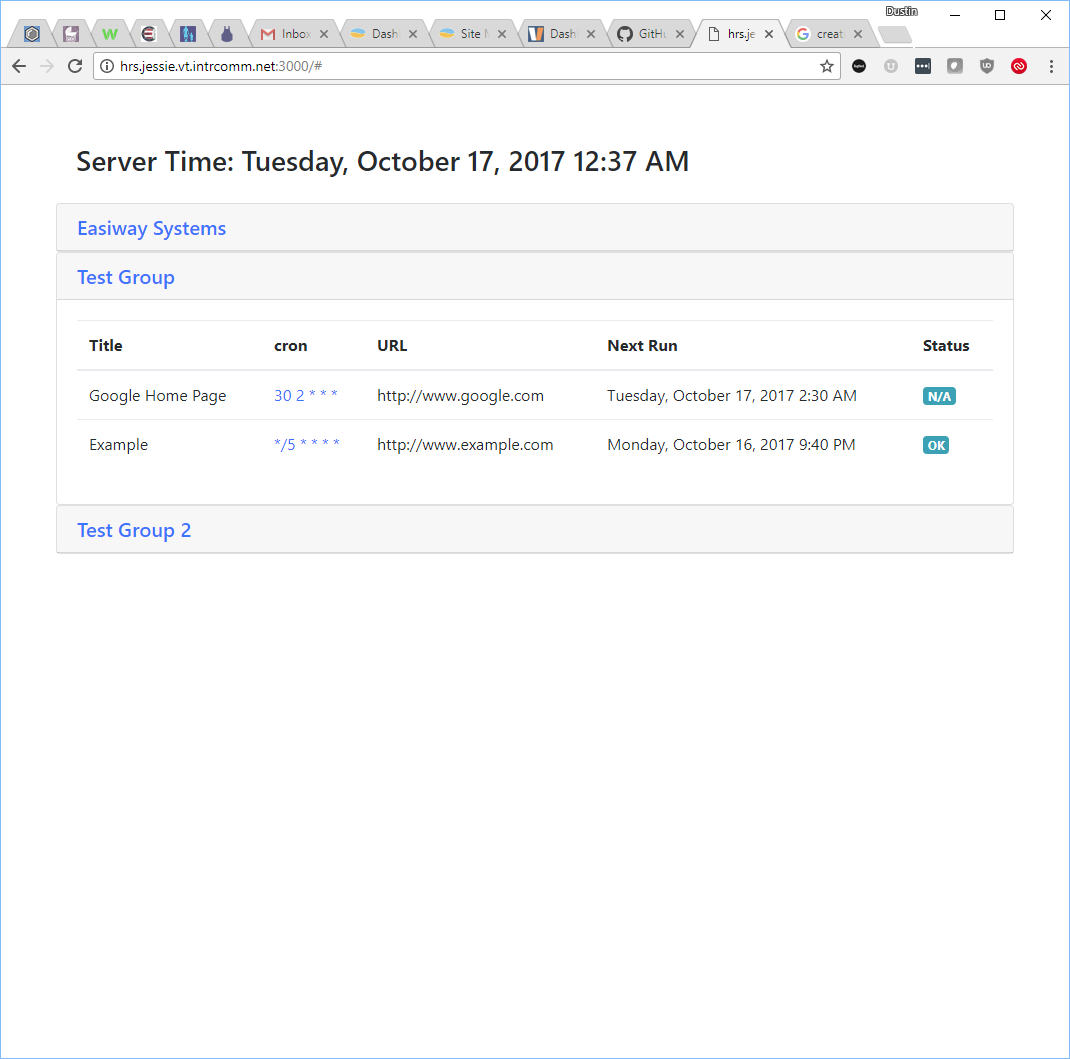
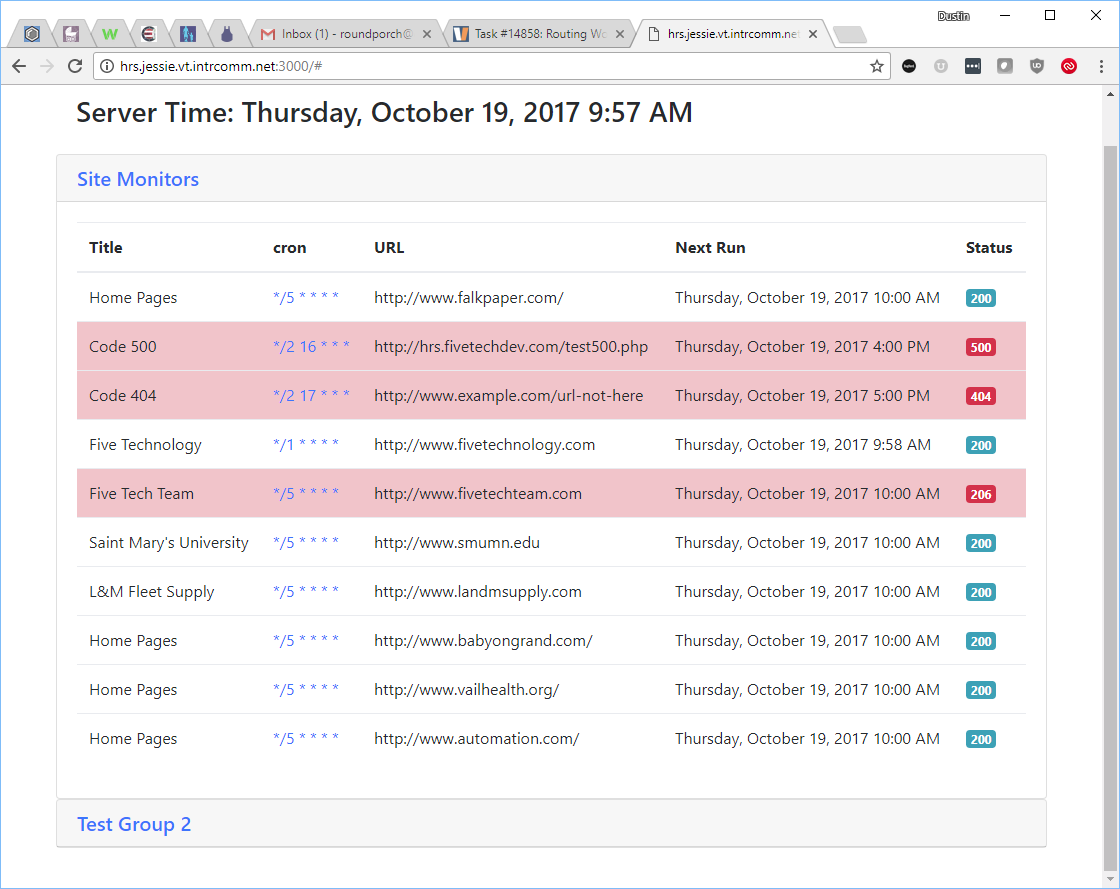
Global config options. Slack webhook integration. Disable single or all jobs. Socket.io update on job data update

diff --git a/index.js b/index.js
@@ -10,70 +10,10 @@ var argv = require('minimist')(process.argv.slice(2));
 if (argv.c) {
   configFile = argv.c;
 }
-if (argv.tickLength || argv.t) {
-  loopSeconds = argv.t;
-}
 
-var Job = function (conf) {
-  this.title = conf.title;
-  this.cron = conf.cron;
-  this.uri = conf.uri;
-  this.domains = conf.domains;
-  this.protocol = conf.protocol;
+console.log("Reading configuration from " + configFile);
+var config = JSON.parse(fs.readFileSync(configFile, 'utf8'));
 
-  // Determine from protocol, uri, domains
-  this.urls = [];
-  if (this.uri) {
-    this.url = this.protocol + '://' + this.domains[0] + this.uri;
-    for(i=0; i<this.domains.length; i++) {
-      this.urls.push(this.protocol + '://' + this.domains[i] + this.uri);
-    }
-  } else {
-    this.url = conf.url;
-  }
-
-  this.guru = "https://crontab.guru/#" + this.cron.replace(' ', '_');
-  this.interval = parser.parseExpression(this.cron);
-  this.lastStatus = 'N/A';
-};
-
-Job.prototype.next = function () {
-  this._next = this.interval.next();
-  this.nextRun = this._next._date.format('LLLL');
-};
-
-Job.prototype.run = function() {
-  var that = this;
-  if (this.uri && this.urls.length) {
-    // Multiple domains
-    for(var i=0; i<this.urls.length; i++) {
-      request.get(this.urls[i], function (error, response, body) {
-        that.statusCode = response.statusCode;
-        that.lastStatus = response.statusMessage;
-        that.body = body;
-        // TODO: Record status code, body, request time, string check
-      });
-    }
-  } else {
-    request.get(this.url, function (error, response, body) {
-      that.statusCode = response.statusCode;
-      that.lastStatus = response.statusMessage;
-      that.body = body;
-      // TODO: Record status code, body, request time, string check
-    });
-  }
-
-};
-
-console.log("Reading groups/jobs from" + configFile);
-var groups = JSON.parse(fs.readFileSync(configFile, 'utf8'));
-groups.forEach(function(group) {
-  for (var i=0; i<group.jobs.length; i++) {
-    var job = new Job(group.jobs[i]);
-    job.next();
-    group.jobs[i] = job;
-  }
-});
 
 // Setup HTTP server and sockets.  We only serve one page
 var server = require('http').createServer(function(req, res) {
@@ -85,29 +25,144 @@ var io = require('socket.io')(server);
 io.on('connection', function(socket) {
   // Will validate the connection
   socket.on('register', function(data) {
-    socket.emit('groups', groups);
-    io.emit('tick', {serverTime: moment().format('LLLL')});
+    socket.emit('groups', config.groups);
+    socket.emit('tick', {serverTime: moment().format('LLLL')});
   });
 });
+
+var Job = function (conf) {
+  this.title = conf.title;
+  this.cron = conf.cron;
+  this.uri = conf.uri;
+  this.url = conf.url;
+  this.done = conf.done;
+  this.domain = '';
+  this.domains = conf.domains;
+  this.protocol = conf.protocol;
+  this.string = conf.string;
+  this.runOnStart = conf.runOnStart;
+};
+
+Job.prototype.next = function () {
+  this._next = this.interval.next();
+  this.done = this._next.done;
+  this.nextRun = this._next._date.format('LLLL');
+};
+
+Job.prototype.init = function() {
+  if (this.uri) {
+    this.url = this.protocol + '://' + this.domain + this.uri;
+  }
+  console.log('Initializing ' + this.url);
+  this.guru = "https://crontab.guru/#" + this.cron.replace(' ', '_');
+  this.interval = parser.parseExpression(this.cron);
+  this.lastStatus = 'N/A';
+  this.statusCode = 0;
+
+  this.next();
+  if (!config.disabled && this.runOnStart) {
+    this.run();
+  }
+};
+
+Job.prototype.request = function(url) {
+  var that = this;
+  request.get({url: url, timeout: 120 * 1000}, function (error, response, body) {
+    if (response) {
+      that.statusCode = response.statusCode;
+      that.lastStatus = response.statusMessage;
+      that.body = body;
+      if (that.string) {
+        console.log('Searching for ' + that.string);
+        if (body.search(that.string) === -1) {
+          that.statusCode = 206;
+          that.lastStatus = "String " + that.string + " not found";
+        }
+      }
+      if (config.slackhook && that.statusCode != 200) {
+        console.log("Sending Slack notification");
+        slack.webhook({
+          channel: "#hrs",
+          username: "5tool",
+          // Not sending the URL as Slack may "unfurl" it essentially running the job again
+          text: that.group + ": " + that.title + ": " + that.statusCode + ": " + that.lastStatus
+        }, function(err, response) {
+          //console.log(response);
+        });
+      }
+    } else {
+      console.log(error);
+    }
+    io.emit('job', that);
+  });
+};
+
+Job.prototype.run = function() {
+  this.request(this.url);
+};
+
+
+// Setup Slack webhook if URL is defined in configuration.  Uses #HRS channel
+if (config.slackhook) {
+  console.log("Setting up slack webhook");
+  var Slack = require('slack-node');
+  slack = new Slack();
+  slack.setWebhook(config.slackhook);
+}
+
+config.groups.forEach(function(group) {
+  var jobCount = group.jobs.length;
+  for (var i=0; i<jobCount; i++) {
+    var job = new Job(group.jobs[i]);
+    job.group = group.title;
+
+    // Treat multiple domains as separate job
+    if (job.uri && job.domains.length) {
+      // Multiple domains
+      job.domain = job.domains[0];
+      job.init();
+      group.jobs[i] = job;
+
+      for (var d=1; d<job.domains.length; d++) {
+        var jobm = new Job(group.jobs[i]);
+        jobm.domain = jobm.domains[d];
+        jobm.init();
+        group.jobs.push(jobm);
+      }
+    } else {
+      job.init();
+      group.jobs[i] = job;
+    }
+
+  }
+});
+
 
 server.listen(3000);
 
 // Start timing loop. Each job will be checked on every loop to determine if it's time to run
+if (argv.t) {
+  loopSeconds = argv.t;
+}
 console.log("Setting up timer for " + loopSeconds + " seconds");
+
 setInterval(function() {
   var now = moment();
 
   io.emit('tick', {serverTime: now.format('LLLL')});
 
-  for (var g=0; g<groups.length; g++) {
-    var group = groups[g];
+  for (var g=0; g<config.groups.length; g++) {
+    var group = config.groups[g];
     for (var i=0; i<group.jobs.length; i++) {
       var job = group.jobs[i];
       if (job.done) continue;
 
       // TODO: Correct way to get moment object from CronDate?
       if (now.isSameOrAfter(job._next._date, 'minute')) {
-        job.run();
+        if (! config.disabled) {
+          job.run();
+        }
+        // TODO: Should job continue to run on error?
         job.next();
       }
     }

diff --git a/index.html b/index.html
@@ -34,9 +34,17 @@
               app: app,
               jobModal: jobModal
             },
+            computed: {
+              classStatus: function() {
+                return {
+                  'badge-info': this.lastStatus == 'OK',
+                  'badge-danger': this.lastStatus != 'OK'
+                }
+              }
+            },
             methods: {
               modal: function(job) {
-                jobModal.title = job.title;
+                jobModal.title = job.statusCode + ': ' + job.lastStatus;
                 jobModal.body = job.body;
                 $("#modal").modal();
               }
@@ -48,6 +56,17 @@
           socket.on('groups', function(data) {
             for(var i=0; i<data.length; i++) {
               Vue.set(groups, i, data[i]);
+            }
+          });
+
+          // Identify the job that was updated and set
+          socket.on('job', function(job) {
+            for(var i=0; i<groups.length; i++) {
+              for(var j=0; j<groups[i].jobs.length; j++) {
+                if (groups[i].jobs[j].cron === job.cron && groups[i].jobs[j].url === job.url) {
+                  Vue.set(groups[i].jobs, j, job);
+                }
+              }
             }
           });
 
@@ -81,7 +100,7 @@
             </a>
           </h5>
         </div>
-        <div v-bind:id="'group' + key " vbind:class="'show': index == 0" class="collapse" data-parent="#accordion">
+        <div v-bind:id="'group' + key" v-bind:class="{show: key == 0}" class="collapse" data-parent="#accordion">
           <div class="card-body">
             <table class="table">
               <thead>
@@ -94,12 +113,12 @@
               </tr>
               </thead>
               <tbody>
-              <tr v-for="job in group.jobs">
+              <tr v-for="job in group.jobs" v-bind:class="{'table-danger': job.statusCode != 200 && job.statusCode != 0}">
                 <td>{{ job.title }}</td>
                 <td><a v-bind:href="job.guru" target="_blank">{{ job.cron }}</a></td>
                 <td>{{ job.url }}</td>
                 <td>{{ job.nextRun }}</td>
-                <td><a href="#"><span v-on:click="modal(job)" class="badge badge-info">{{ job.lastStatus }}</span></a></td>
+                <td><a href="#" v-bind:title="job.string"><span v-on:click="modal(job)" v-bind:class="{'badge-info': job.statusCode == 200, 'badge-danger': job.statusCode != 200 && job.statusCode != 0}" class="badge" v-bind:title="job.lastStatus">{{job.statusCode}}</span></a></td>
               </tr>
               </tbody>
             </table>

diff --git a/README.md b/README.md
@@ -4,9 +4,17 @@ Schedule, record, and notify of http based cron jobs.
 
 # Requirements
 
-1. Group jobs into meaningful groups, application or client
+1. Group jobs into meaningful groups like application or client
 2. Allow running jobs on multiple domains i.e. development/production
-3. Record response for all instances: status, body
+3. Record response for all instances: status, code, body
+4. Simple string match to identify success
+
+# TODO
+
+1. Reload configuration file without restart
+2. Email or txt notifications
+3. Send URL to Slack but only if it's not unfurled
+4. String match to identify error state
 
 # Setup
 
@@ -15,11 +23,56 @@ Schedule, record, and notify of http based cron jobs.
 3. `nodejs index.js`
 4. Browse to http://localhost:3000 or server address
 
+# Configuration / Command Line Options
+
+Set `"disabled": true` in the config file to only parse and display jobs, never calls `run()`.  Good for testing json
+syntax.
+
+Can set job `"done": true` to to disable a specific job.
+
+To specify a different configuration file `nodejs index.js -c local.json`.  The default is
+`config.json`.
+
+To specify timer resolution in seconds use `-t`. Default is 60 seconds, the smallest resolution
+for a cron job. If all jobs are daily a resolution of 1 hour might make more sense. 
+`nodejs index.js -t 3600`
+
+# Slack Webhook
+
+Add your Slack webhook url to the configuration to send notifications to #HRS channel
+
+```json
+{
+  "slackhook": "https://hooks.slack.com/services/xxxxxxxxx/xxxxxxxxx/xxxxxxxxxxxxxxxxxxxxxxxx",
+  "groups": [ 
+    {
+      "title": "Group 1",
+      "jobs": [
+        {
+          "title": "Job 1",
+          "cron": "30 2 * * * ",
+          "url": "http://www.example.com/",
+          "runOnStart": true
+        }
+      ]
+    }
+  ]
+}
+```
+
 ![](hrs.png)
 
 # Inspiration + Research
+https://github.com/harrisiirak/cron-parser \
 https://crontab.guru/ \
-https://momentjs.com/docs/
+https://momentjs.com/docs/ \
+https://github.com/request/request \
+https://www.npmjs.com/package/slack-node \
+https://socket.io/ \
+https://vuejs.org/ \
+https://v4-alpha.getbootstrap.com/ \
+https://github.com/substack/minimist \
+
 
 https://github.com/fzaninotto/uptime \
 http://www.camintejs.com/en \
